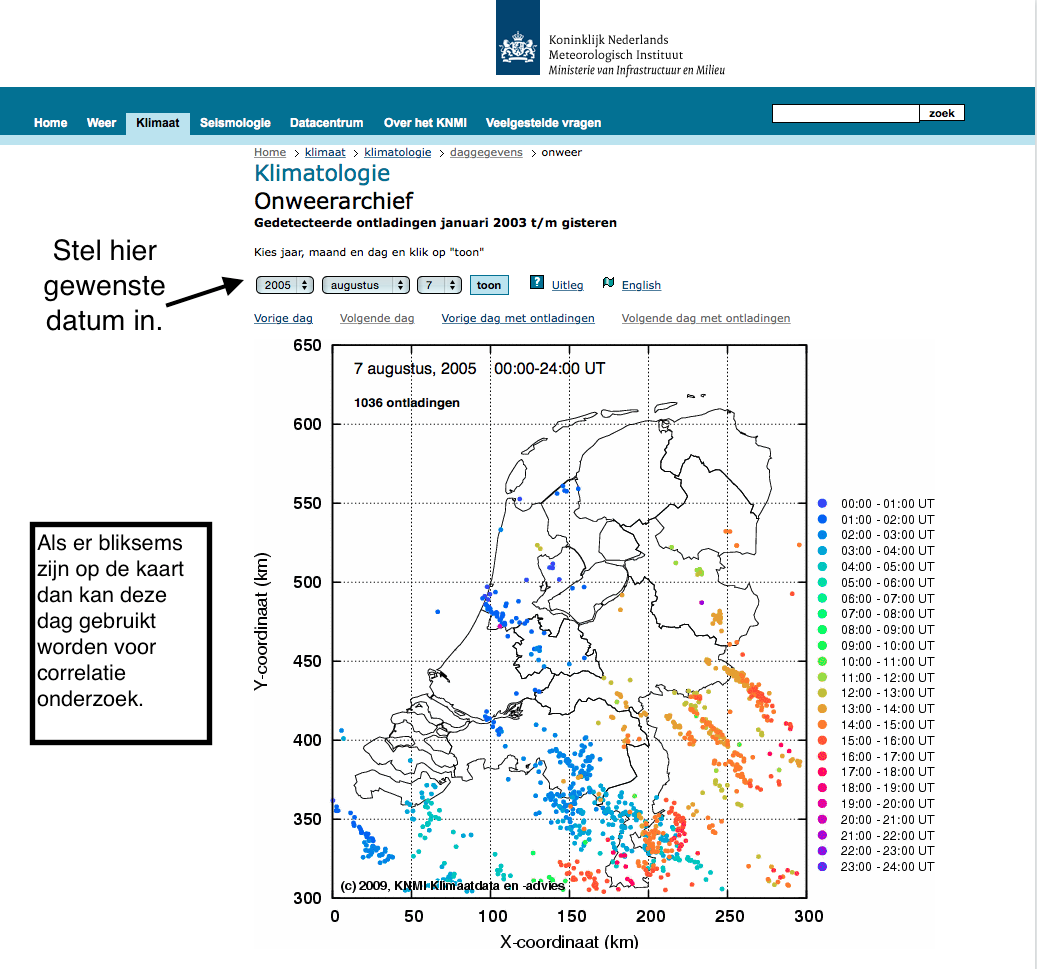
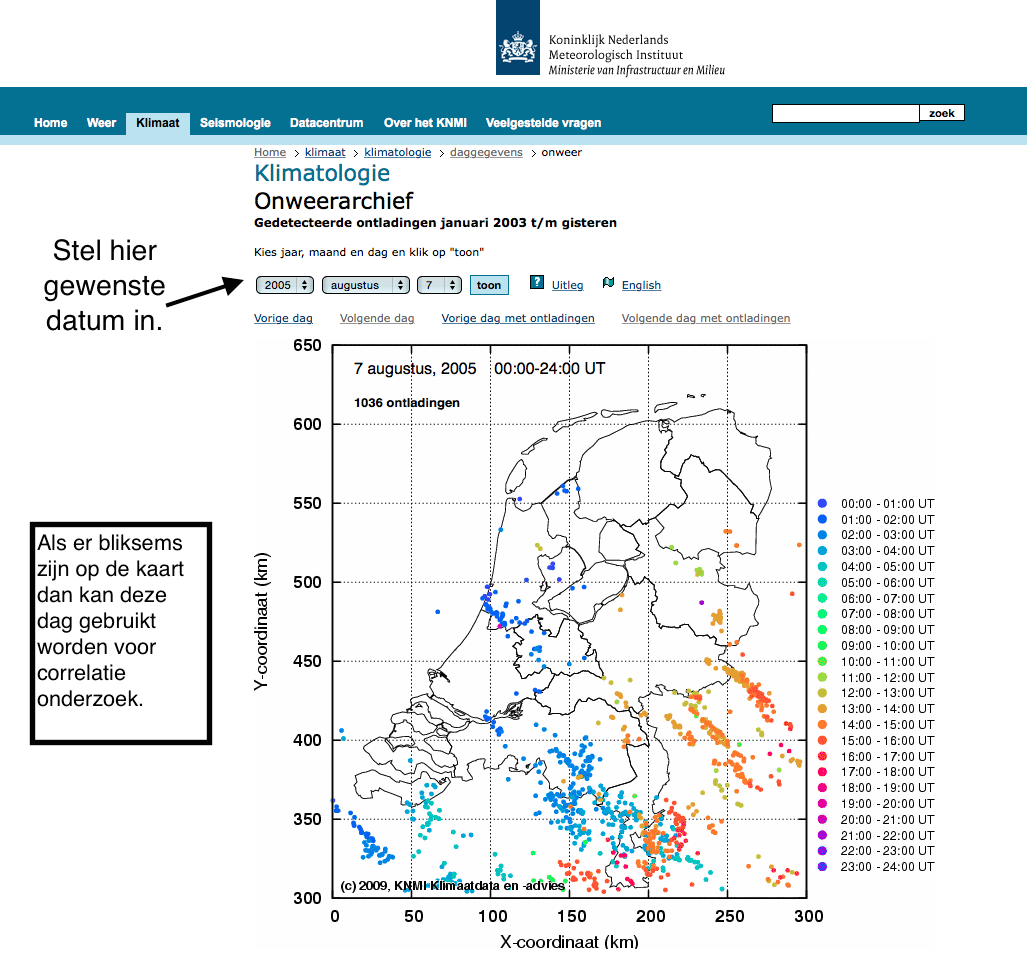
changed bliksem werkblad
bliksem recipe and werkblad changed

diff --git a/recept_bliksem/recept_bliksem.tex b/recept_bliksem/recept_bliksem.tex
@@ -24,17 +24,17 @@ leerjaar & niveau \tabularnewline
 Dit recept voor werken met \hisparc gaat in op het zoeken van correlaties tussen 
 bliksem en kosmische showers. Het doel van deze lessenserie is om leerlingen 
 kennis te laten maken met kosmische straling en ze een onderzoek te laten doen 
-in de database van \hisparc, waarbij ze een correlatie proberen te vinden tussen 
-bliksemontladingen en kosmische straling. Ze onderzoeken of er binnen een geschikt
+met de database van \hisparc, waarbij ze een correlatie proberen te vinden tussen 
+bliksemontladingen en kosmische straling. Ze onderzoeken namelijk of er binnen een geschikt
 tijdsinterval rond de bliksemontlading ook een kosmische shower (event) door 
 een \hisparc station is gemeten.
 Leerlingen krijgen eerst een introductie over kosmische straling en gaan
-dan aan de slag met het analyseren van \hisparc data en
-in de laatste les kunnen de leerlingen een verslag van hun bevindingen.
+dan aan de slag met het analyseren van \hisparc data en in de laatste les kunnen 
+de leerlingen onderzoeken en een verslag van hun bevindingen maken.
 \\
 
 \textbf{Alles wat nodig is voor deze lessenserie vindt u hier:}\\
-\url{http://docs.hisparc.nl/zips/Bliksemonderzoek.zip}
+\url{http://docs.hisparc.nl/zips/bliksemonderzoek.zip}
 
 
 \textit{Bronnen:} Leerlingen kunnen tijdens deze lessenserie gebruik maken van de 
@@ -95,7 +95,9 @@ In deze les leren de leerlingen hoe ze data van \hisparc en bliksem kunnen downl
 Het is ook van belang dat leerlingen dat leerlingen leren, de gedownloade `csv' bestanden
 in te lezen in Excel. Daartoe kan de docent een voorbeeldbestand aanleveren.
 Een online tutorial over inlezen van `csv' bestanden in Excel vindt U hier:\\
-\url{ http://www.jkp-ads.com/Articles/importtextnl.asp}
+\url{ http://www.jkp-ads.com/Articles/importtextnl.asp} \\
+De werkwijze om data te downloaden wordt in het kort uitgelegd in \figref{fig:overview_website}, 
+\figref{fig:data_download}, \figref{fig:data_download_form} en \figref{fig:KNMI_data} van dit artikel.
 
 In deze les behandelen we zaken als:
 \begin{itemize}
@@ -104,15 +106,14 @@ In deze les behandelen we zaken als:
     \item Hoe lezen we deze data uit met Excel?
 \end{itemize}
 
-Zoals te zien is in \figref{fig:overview_website} en \figref{fig:data_download}
-en \figref{fig:KNMI_data}, is het relatief eenvoudig om dagen te vinden met 
+Zoals te zien is in \figref{fig:KNMI_data}, is het relatief eenvoudig om dagen te vinden met 
 bliksemdata.
 \section{Les 3}
 
 De leerlingen gaan in deze les aan de slag met de opdracht: "Kun je correlaties 
 vinden tussen bliksemontlading en kosmische straling events?"
 
-Gebruik bij deze les het werkblad "bliksem data"  van het infopakket.
+Gebruik bij deze les: het werkblad \textit{bliksem onderzoek} van het infopakket.
  
 De docent is vrij om de leerlingen deze opdracht als oefening te laten doen of
 een verslaglegging te vragen van de vorderingen van de leerlingen.
@@ -147,14 +148,25 @@ Materiaal voor lessen over kosmische stralingen is te vinden op de volgende webs
 \begin{figure}
     \centering
     \includegraphics[scale=0.4]{data_download}
-    \caption{Klik op "download event summary data", om bij het dataformulier te komen.}
+    \caption{Klik op `download event summary data', om bij het dataformulier te komen.}
     \label{fig:data_download}
-
 \end{figure}
 
 \begin{figure}
     \centering
-    \includegraphics[scale=0.4]{KNMI_data}
+    \includegraphics[scale=0.35]{data_download_form}
+    \caption{Selecteer op deze site het gewenste station, de begin- en einddatum en tijd 
+     en of je de data als csv-bestand of in je browser wilt hebben. Als er oefeningen met 
+     het inlezen in Excel gedaan worden, dan moet je de data als csv-bestand downloaden.
+     Neem de tussenposen tussen de begin- en einddatum en tijd klein (een paar uur), 
+     omdat je snel heel veel data hebt. Te grote tijdsduur resulteert in grote databestanden.}
+    \label{fig:data_download_form}
+\end{figure}
+
+
+\begin{figure}
+    \centering
+    \includegraphics[scale=0.35]{KNMI_data}
     \caption{Op deze site van het KNMI (website 1) kun je snel dagen met bliksem vinden. Als een dag 
     met bliksem is gevonden, moet gecheckt worden of het \hisparc station wat in de
     buurt staat van veel bliksemontladingen, online was die dag. Zo ja, dan kan 

diff --git a/bliksem_onderzoek/bliksem_onderzoek.tex b/bliksem_onderzoek/bliksem_onderzoek.tex
@@ -18,21 +18,21 @@ kosmische showers gemeten door \hisparc stations.
 We hebben een aantal websites nodig voor ons onderzoek, namelijk:
 \begin{enumerate}
     \item Database met datum/posities van bliksemontladingen van het KNMI\\
-    \url{ http://www.knmi.nl/klimatologie/daggegevens/onweer/}
+    \url{ http://www.knmi.nl/klimatologie/daggegevens/onweer/} \\
     Momenteel heeft de bliksem database van \hisparc data beschikbaar van 2003-2013.
     
     \item Zoeken in de database van \hisparc.\\
     \url{http://data.hisparc.nl}
 \end{enumerate}
 
-Op website 1: kun je dagen met bliksem vinden in de database van het KNMI. 
+Op website 1 kun je dagen met bliksem vinden in de database van het KNMI. 
 We zullen daar naar geschikte dagen met bliksemontladingen zoeken.
 In de database van \hisparc kunnen we data van kosmische showers opvragen en
 kijken of we bliksemontladingen kunnen relateren aan kosmische showers.
 We kunnen ons daarbij afvragen binnen welk tijdsbestek een kosmische shower gemeten
 moet worden en of dat voor of na een bliksem moet zijn. Om dit soort vragen te 
 beantwoorden kan literatuur over bliksem en kosmische straling bestudeert worden.
-Zoals:
+Zoals:\\
 1. Achtergrond informatie bliksem en kosmischestraling (natuur en techniek)\\
 \url{ http://bruno.home.xs4all.nl/2005/NWT%200705%20bliksem.pdf}\\
 2. Artikel van CWI.\\
@@ -45,9 +45,12 @@ Zoals:
 In welk gebied en welk station wil je bliksemontladingen vinden? Probeer met 
 van de website \url{http://data.hisparc.nl} de gps locaties van deze stations te 
 achterhalen. Schrijf het nummer van de stations op en hun GPS locatie.
+Op de website \url{http://www.openstreetmap.org} kun je de gps locaties van zowel
+stations en bliksemontladingen invoeren in de search balk van deze website. 
 \makelines{2} 
 \begin{solution}
-  Open opdracht: ter beoordeling aan de docent.
+  Open opdracht: ter beoordeling aan de docent. Aanbeveling: Doe het invoeren van GPS locatie
+  even een keer voor op de website van `openstreetmap'.
 \end{solution}
 
 \question 
@@ -83,7 +86,8 @@ Je moet voor een schatting van de tijdsduur "traces" bekijken met de dataretriev
   De tijdsduur van de bliksemontlading om nog bij een kosmische shower te horen 
   is heel kort. In de orde $<$ 100 nanoseconden, helaas heeft het KNMI een tijdsresolutie
   van microseconden. We zullen dus nooit echt een bijpassende bliksem vinden.
-  Het geeft de leerling wel een moment om eens over tijdsduren na te denken.
+  Het geeft de leerling wel een moment om eens over tijdsduren van kosmische showers en bliksem 
+  na te denken. En hoe moeilijk het is om onderzoek te doen.
 \end{solution}
 
 \question 
@@ -93,7 +97,9 @@ Je kunt nu data uitzetten in plotjes.
 Plot bijvoorbeeld eens het aantal bliksem ontladingen tegen tijd.
 Je kunt hiervoor de grafiek wizard van Excel gebruiken.
 \makelines{4}
-
+\begin{solution}
+    De plotjes zijn ter beoordeling aan de docent. 
+\end{solution}
 
 \begin{figure}
     \centering
@@ -113,7 +119,7 @@ Je kunt hiervoor de grafiek wizard van Excel gebruiken.
 
 \begin{figure}
     \centering
-    \includegraphics[scale=0.4]{KNMI_data}
+    \includegraphics[scale=0.3]{KNMI_data}
     \caption{Op deze site van het KNMI (website 1) kun je snel dagen met bliksem vinden. Als een dag 
     met bliksem is gevonden, moet gecheckt worden of het \hisparc station wat in de
     buurt staat van veel bliksemontladingen, online was die dag. Zo ja, dan kan 
@@ -121,6 +127,7 @@ Je kunt hiervoor de grafiek wizard van Excel gebruiken.
     gedownload worden.}
     \label{fig:KNMI_data}
 \end{figure}
+
 
 \begin{figure}
     \centering
